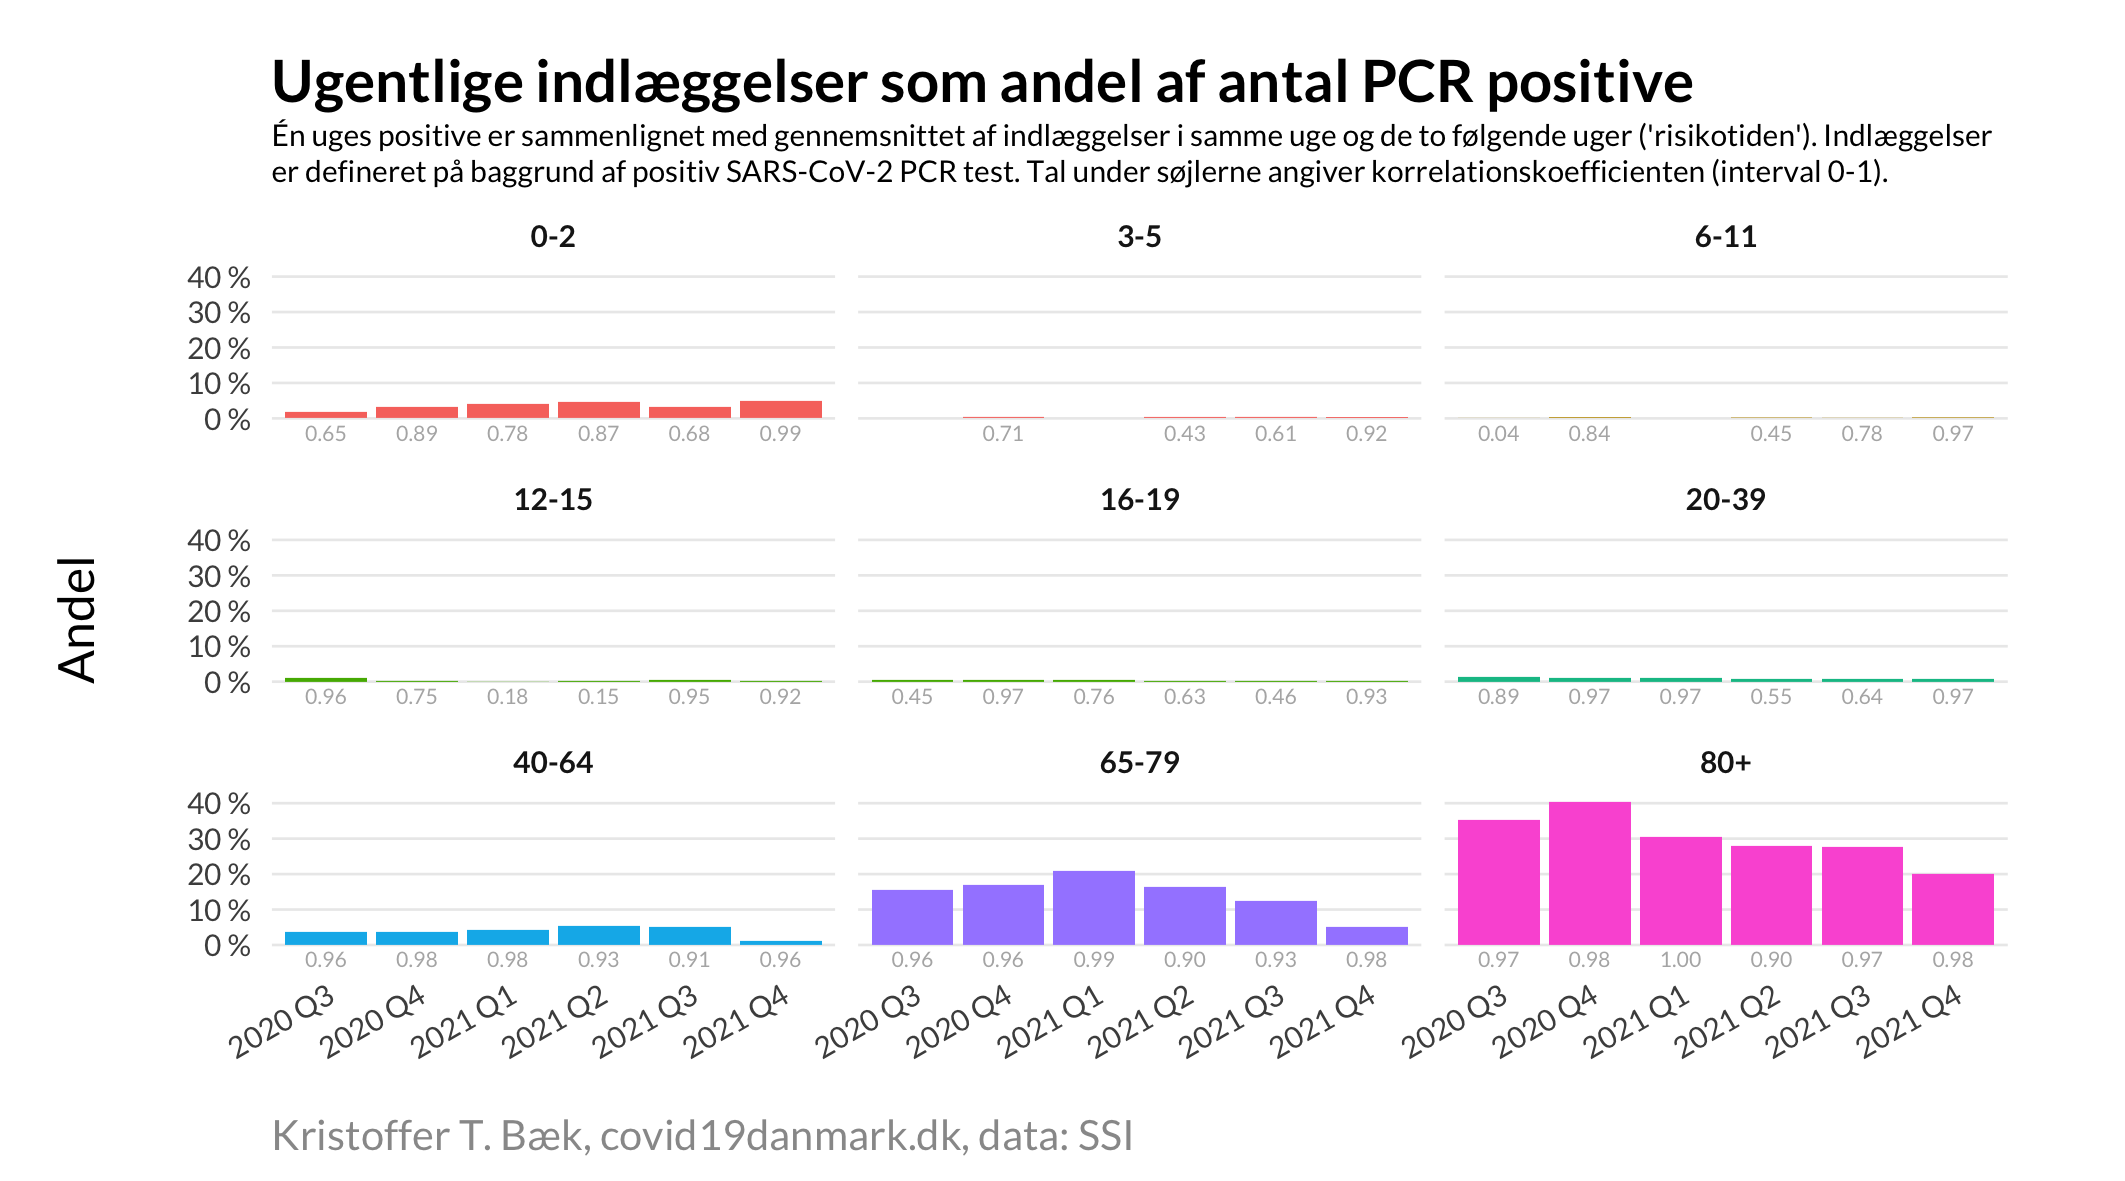
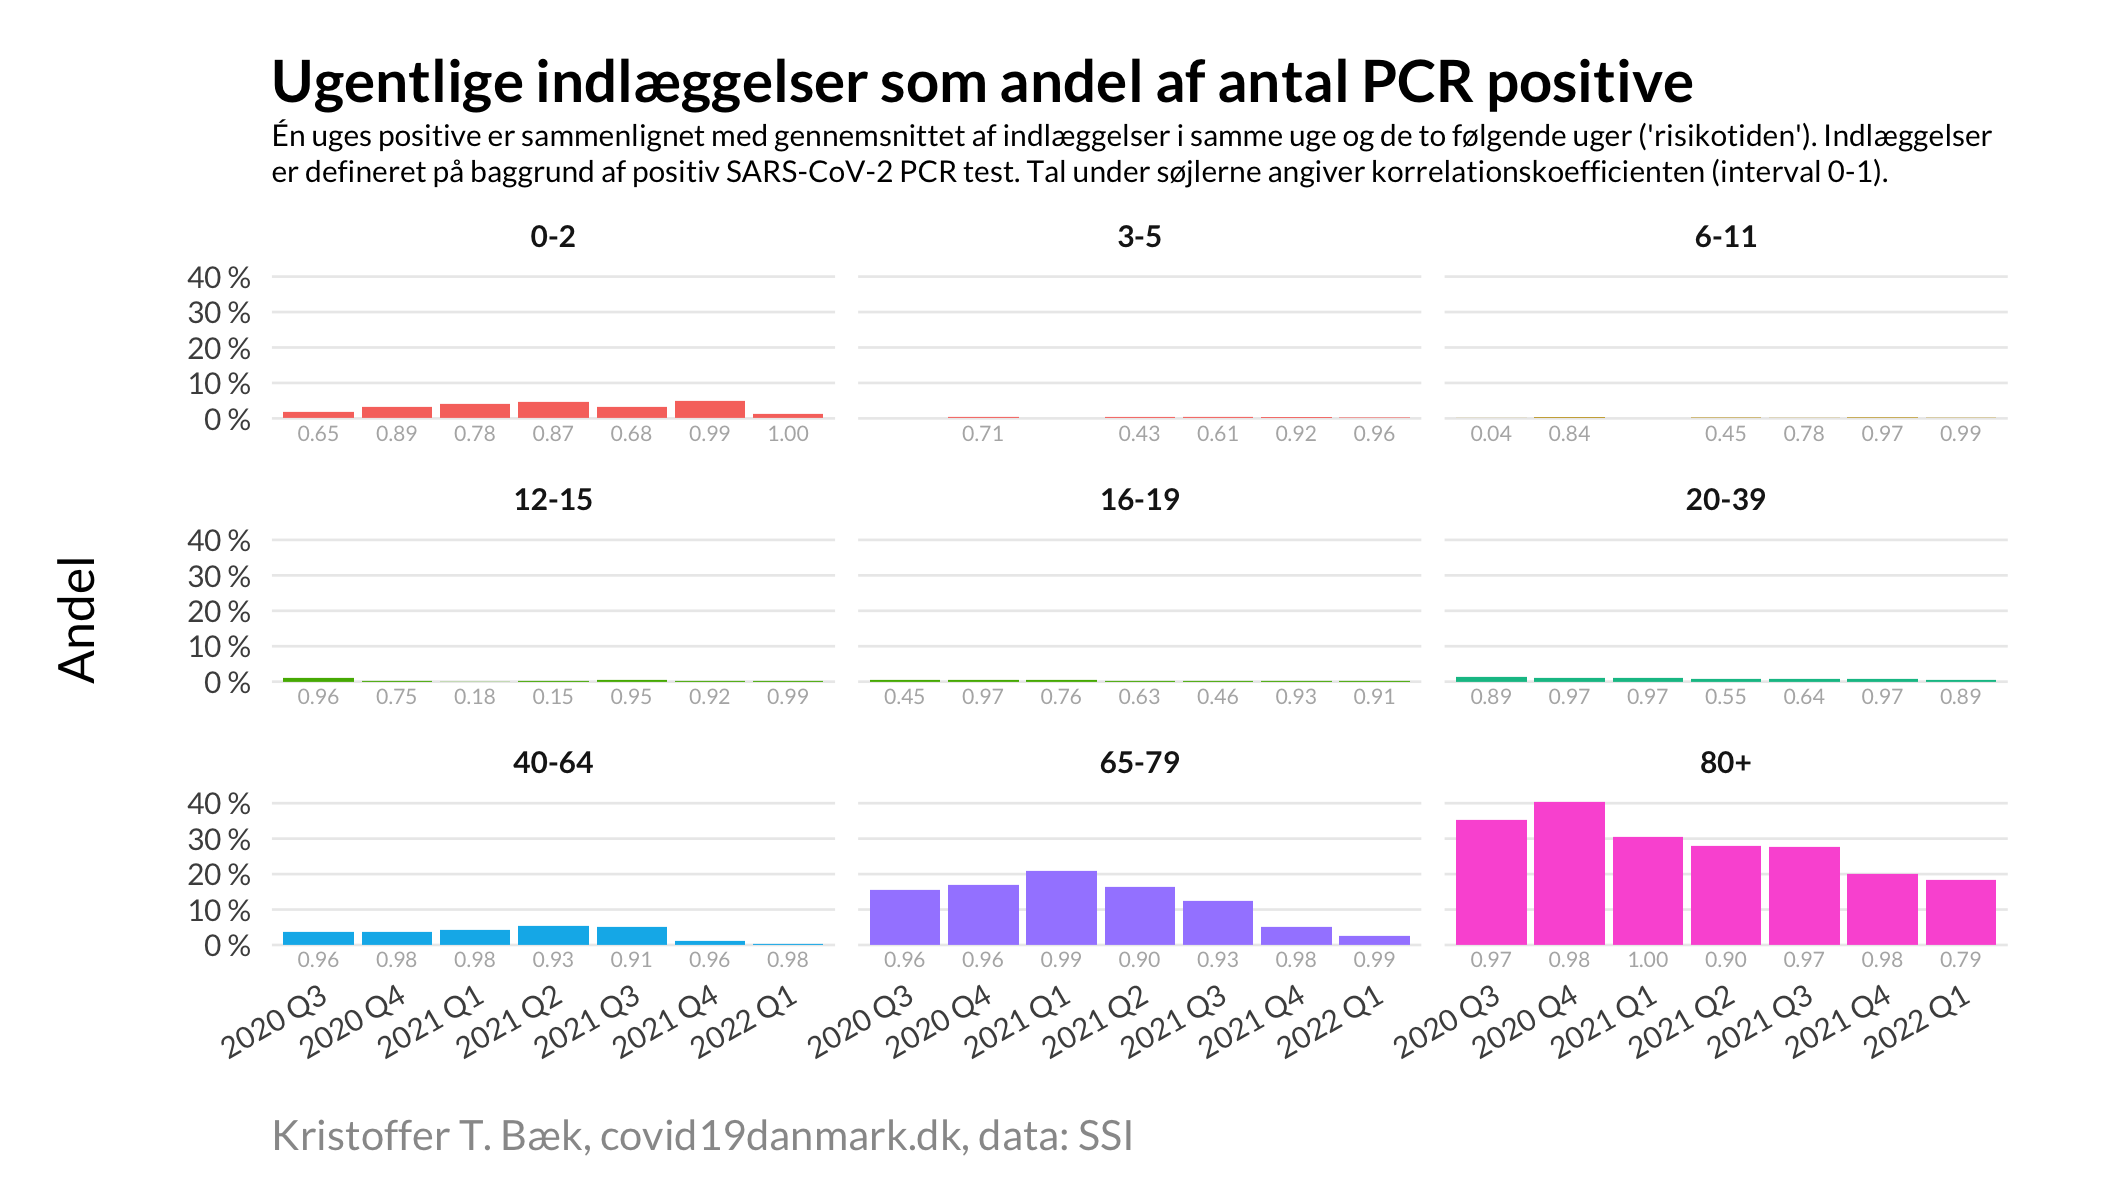
Update plots

diff --git a/index.md b/index.md
@@ -140,6 +140,8 @@ Plottene viser det ugentlige antal positive, testede og nyindlagte per 100.000 i
 
 Plottet viser andelen af PCR positive der efterfølgende indlægges for hvert kvartal siden 1. juli 2020. Andelene er beregnet ved lineær regression mellem 1) antal positive i en enkelt uge og 2) gennemsnittet af antal indlæggelser i samme uge eller de to følgende uger (det er den periode en positiv test kan give anledning til at en indlæggelse registreres som en COVID-19 relateret indlæggelse). Korrelationskoefficienterne under søjlerne angiver hvor god sammenhængen mellem antal positive og antal indlæggelser er.
 
+Bemærkt at resultatet for indeværende kvartal muligvis kun er baseret på få datapunkter. 
+
 ``SSI datasæt: '18_fnkt_alder_uge_testede_positive_nyindlagte'``
 
 ![](/figures/ntl_pos_admit_bars_quarter.png)
